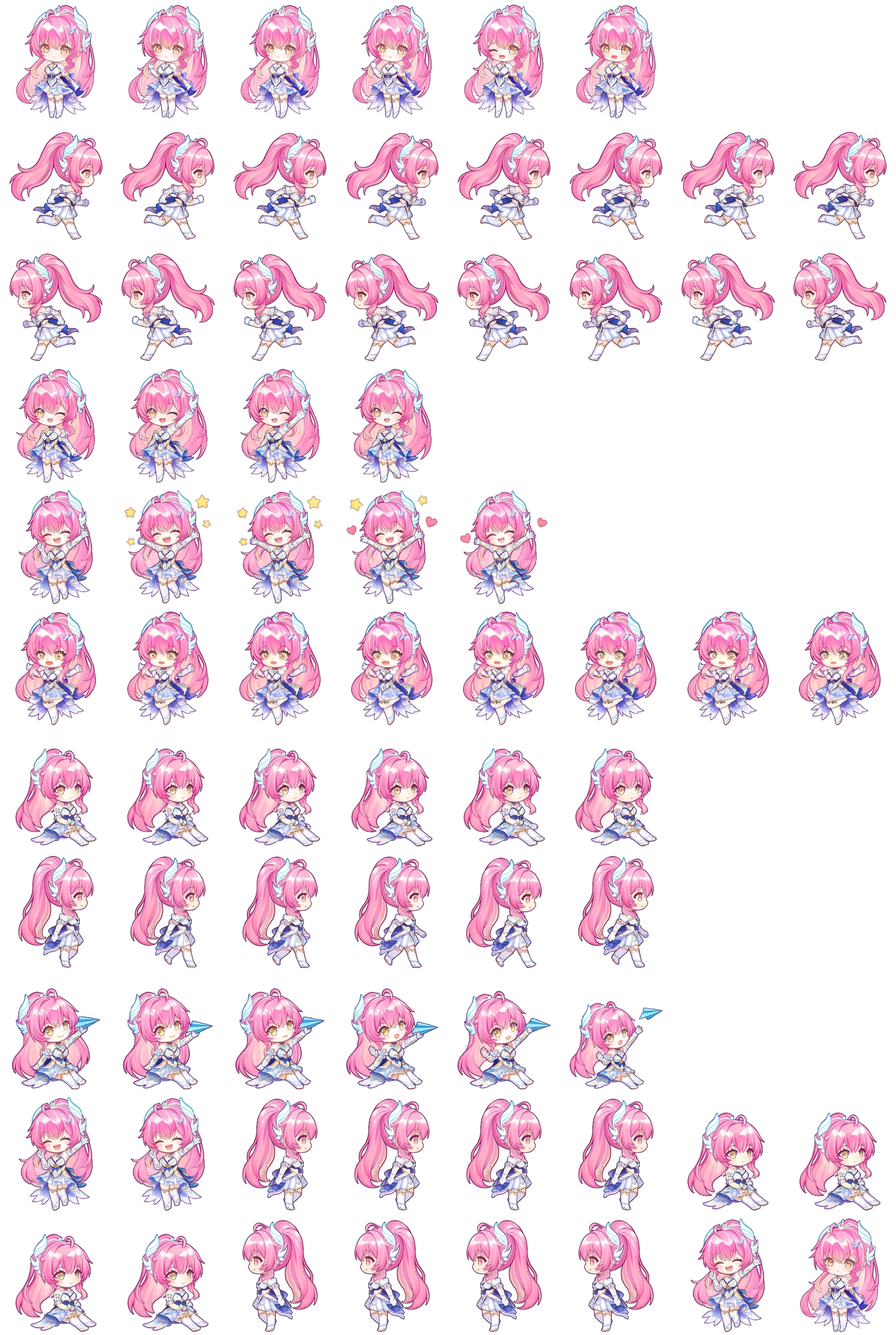
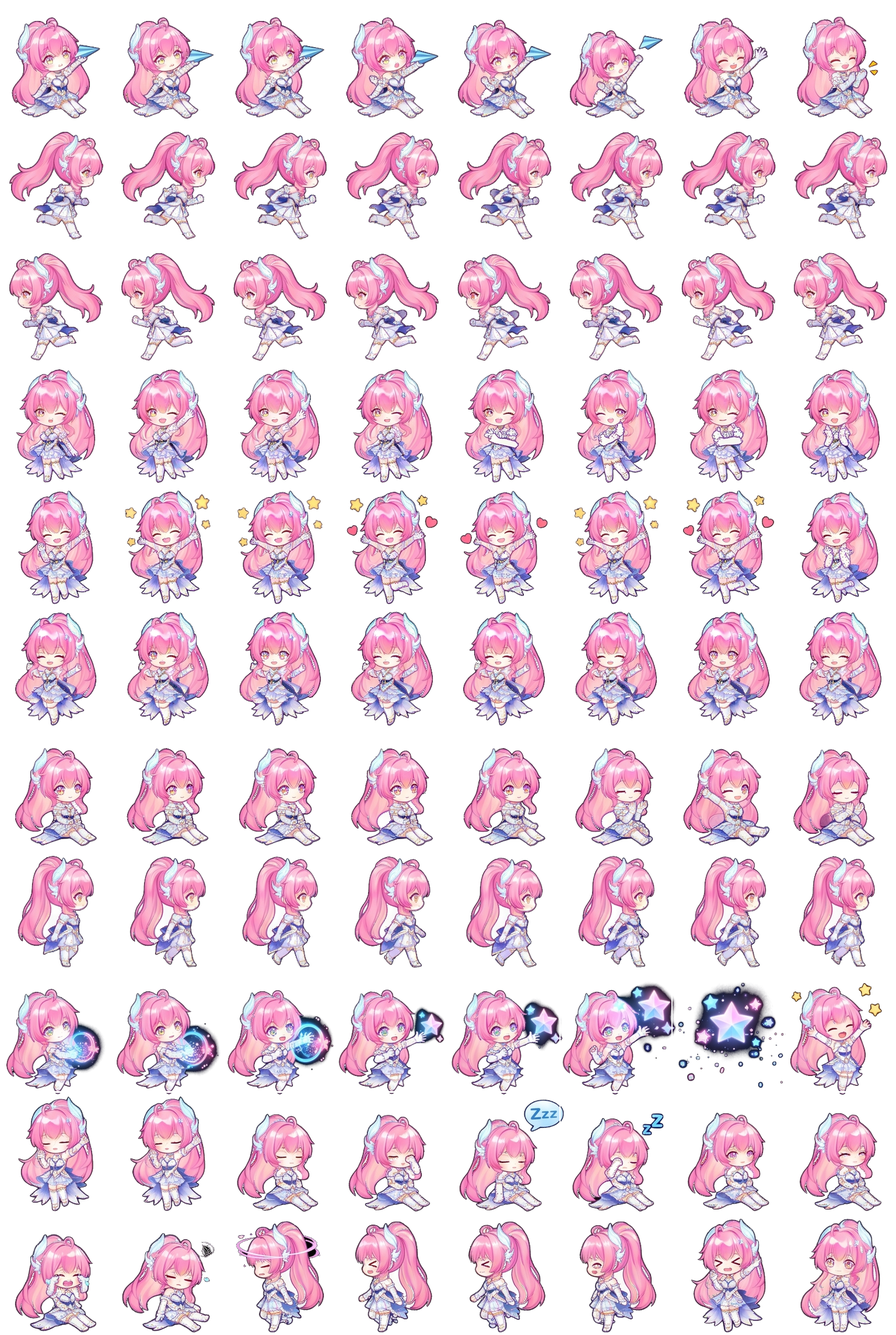
v1.0.2

Changed region(s): [[0.0, 0.0, 1.0, 1.0]]

diff --git a/tools/Compliant_Image_Reconstruction.py b/tools/Compliant_Image_Reconstruction.py
@@ -1,0 +1,177 @@
+from pathlib import Path
+
+# pyrefly: ignore [missing-import]
+import numpy as np
+# pyrefly: ignore [missing-import]
+from PIL import Image
+# pyrefly: ignore [missing-import]
+from scipy import ndimage
+
+# Codex-Pet V2 硬性规格常量 (8列 x 11行, 单帧 192x208, 总尺寸 1536x2288)
+CODEX_V2_COLS: int = 8
+CODEX_V2_ROWS: int = 11
+CODEX_V2_FRAME_W: int = 192
+CODEX_V2_FRAME_H: int = 208
+
+
+def _build_internal_dark_mask(
+    opaque_body: np.ndarray,
+    max_hole_area: int = 160,
+) -> np.ndarray:
+    """仅保留角色内部极小闭合深色区域（如眼瞳），防止双腿或发丝间的闭合黑底被误留。"""
+    solid_interior = ndimage.binary_fill_holes(opaque_body)
+    all_holes = solid_interior & (~opaque_body)
+
+    labeled_holes, num_features = ndimage.label(all_holes)
+    if num_features == 0:
+        return np.zeros_like(opaque_body, dtype=bool)
+
+    hole_sizes = ndimage.sum(all_holes, labeled_holes, range(1, num_features + 1))
+    small_hole_labels = np.where(hole_sizes <= max_hole_area)[0] + 1
+    return np.isin(labeled_holes, small_hole_labels)
+
+
+def _align_to_codex_grid(
+    img: Image.Image,
+    cols: int,
+    rows: int,
+    frame_w: int,
+    frame_h: int,
+    cell_padding: int = 1,
+) -> Image.Image:
+    """将图像按网格逐帧居中重采样至严格的 192x208 单元格，并清理边界防止串帧。"""
+    src_w, src_h = img.size
+    target_total_w = cols * frame_w
+    target_total_h = rows * frame_h
+
+    canvas = Image.new("RGBA", (target_total_w, target_total_h), (0, 0, 0, 0))
+    inner_max_w = frame_w - (cell_padding * 2)
+    inner_max_h = frame_h - (cell_padding * 2)
+
+    for r in range(rows):
+        for c in range(cols):
+            # 计算原图对应单元格的精确浮点边界并切片
+            x0 = round(c * src_w / cols)
+            y0 = round(r * src_h / rows)
+            x1 = round((c + 1) * src_w / cols)
+            y1 = round((r + 1) * src_h / rows)
+
+            cell = img.crop((x0, y0, x1, y1))
+            cw, ch = cell.size
+            if cw == 0 or ch == 0:
+                continue
+
+            # 保持原单元格比例缩放并居中放入 192x208 帧内
+            scale = min(inner_max_w / cw, inner_max_h / ch)
+            new_w = max(1, round(cw * scale))
+            new_h = max(1, round(ch * scale))
+            resized_cell = cell.resize((new_w, new_h), Image.Resampling.LANCZOS)
+
+            paste_x = c * frame_w + (frame_w - new_w) // 2
+            paste_y = r * frame_h + (frame_h - new_h) // 2
+            canvas.paste(resized_cell, (paste_x, paste_y), resized_cell)
+
+    return canvas
+
+
+def remove_black_bg_for_spritesheet(
+    input_path: str,
+    output_path: str,
+    cols: int = CODEX_V2_COLS,
+    rows: int = CODEX_V2_ROWS,
+    frame_w: int = CODEX_V2_FRAME_W,
+    frame_h: int = CODEX_V2_FRAME_H,
+    noise_floor: int = 12,
+    soft_threshold: int = 55,
+    max_hole_area: int = 160,
+) -> None:
+    src_file = Path(input_path)
+    if not src_file.exists():
+        raise FileNotFoundError(f"未找到输入图像文件: {src_file.resolve()}")
+
+    # 1. 读取图像并转换为 RGBA 浮点数组
+    img = Image.open(src_file).convert("RGBA")
+    data = np.array(img, dtype=np.float32)
+    rgb = data[:, :, :3]
+    orig_alpha = data[:, :, 3]
+
+    # 计算每个像素的最大通道亮度 (0 ~ 255)
+    max_rgb = np.max(rgb, axis=2)
+
+    # 2. 保护角色内部细小深色区域（如眼瞳、闭合小线条），排除肢体间大块闭合黑底
+    opaque_body = (max_rgb >= soft_threshold) & (orig_alpha > 128)
+    internal_dark_mask = _build_internal_dark_mask(
+        opaque_body=opaque_body,
+        max_hole_area=max_hole_area,
+    )
+
+    # 3. 计算平滑 Alpha 通道（消除底噪与边缘黑边）
+    alpha = np.ones_like(max_rgb, dtype=np.float32) * 255.0
+
+    # 纯黑底噪区直接设为全透明 (Alpha = 0)
+    bg_zero_mask = (max_rgb <= noise_floor) & (~internal_dark_mask)
+    alpha[bg_zero_mask] = 0.0
+
+    # 边缘过渡与发光特效区（如第9行星光）按亮度线性映射 Alpha
+    transition_mask = (
+        (max_rgb > noise_floor)
+        & (max_rgb < soft_threshold)
+        & (~internal_dark_mask)
+    )
+    alpha[transition_mask] = (
+        (max_rgb[transition_mask] - noise_floor) / (soft_threshold - noise_floor)
+    ) * 255.0
+
+    # 结合原图自带的 Alpha 通道（若输入本身为带透明度的 PNG）
+    alpha = np.minimum(alpha, orig_alpha)
+
+    # 4. 颜色反乘（Unmultiply）：去除半透明边缘混入的黑色底色，恢复原本鲜艳色彩
+    alpha_norm = alpha / 255.0
+    valid_alpha = alpha_norm > 0.01
+    for c in range(3):
+        channel = rgb[:, :, c]
+        channel[valid_alpha] = np.clip(
+            channel[valid_alpha] / alpha_norm[valid_alpha], 0.0, 255.0
+        )
+        channel[~valid_alpha] = 0.0
+        data[:, :, c] = channel
+
+    data[:, :, 3] = np.clip(alpha, 0.0, 255.0)
+    clean_img = Image.fromarray(data.astype(np.uint8), mode="RGBA")
+
+    # 5. 严格对齐至 Codex V2 标准网格尺寸：单帧 192x208，总分辨率 1536x2288
+    final_img = _align_to_codex_grid(
+        img=clean_img,
+        cols=cols,
+        rows=rows,
+        frame_w=frame_w,
+        frame_h=frame_h,
+        cell_padding=1,
+    )
+
+    # 6. 校验最终输出尺寸并导出为无损透明 WebP 格式
+    expected_size = (cols * frame_w, rows * frame_h)
+    assert final_img.size == expected_size, (
+        f"尺寸校验失败: 当前 {final_img.size}, 预期 {expected_size}"
+    )
+
+    dst_file = Path(output_path)
+    dst_file.parent.mkdir(parents=True, exist_ok=True)
+    final_img.save(dst_file, format="WEBP", lossless=True, quality=100, method=6)
+
+    print(
+        f"处理完成: {dst_file} | "
+        f"最终尺寸: {expected_size[0]}x{expected_size[1]} "
+        f"(网格: {cols}列x{rows}行, 单帧: {frame_w}x{frame_h})"
+    )
+
+
+if __name__ == "__main__":
+    # 将输入文件名替换为保存的图片路径，输出直接命名为 pet.json 所需的 WebP 文件
+    remove_black_bg_for_spritesheet(
+        input_path="./assets/demo.png",
+        output_path="./assets/demo.webp",
+        cols=8,
+        rows=11,
+    )
+    

diff --git a/README.md b/README.md
@@ -1,17 +1,30 @@
-# 爱弥斯桌宠
-
-旅途愉快，希望在接下来的旅途中每天都要开心！
-
-## 安装
+# 安装 Pets
 
 1. 找到 Codex 数据目录；默认是 `%USERPROFILE%\.codex`，如果你设置了 `CODEX_HOME`，使用对应的数据目录。
 2. 将本项目的整个 `pets/aimisi` 文件夹复制到数据目录的 `pets` 文件夹，使 `pet.json` 和 `spritesheet.webp` 位于同一个 `aimisi` 目录。
 3. 如果已有同名目录，先备份，不直接覆盖。在 Codex 的桌宠选择器中选择 **爱弥斯**。
 
-## 动作与格式
+### 图集为 1536×2288 的透明 WebP，8 列 × 11 行，每帧 192×208；`pet.json` 使用 `spriteVersionNumber: 2`。
 
-图集为 1536×2288 的透明 WebP，8 列 × 11 行，每帧 192×208；`pet.json` 使用 `spriteVersionNumber: 2`。
+### 移除时，仅移走自己安装的 `pets/aimisi` 目录；不要删除整个 Codex 数据目录。
 
-包含眨眼/呼吸待机、向右奔跑、向左奔跑、挥手、欢呼跳跃、被拽起/受挫、坐下等待、行走循环、投掷纸飞机思考，以及 16 个方向的鼠标视线跟随注视。动作何时播放由 Codex 状态与交互决定。
+# 开发环境配置
 
-移除时，仅移走自己安装的 `pets/aimisi` 目录；不要删除整个 Codex 数据目录。
+## 创建虚拟环境
+
+```bash
+python -m venv .venv
+```
+
+## 激活虚拟环境
+
+```bash
+.\.venv\Scripts\Activate.ps1
+pip install -r requirements.txt
+```
+
+## 重构精灵图以符合 Codex Pet 规范
+
+```bash
+python tools/Compliant_Image_Reconstruction.py
+```

diff --git a/Prompt.md b/Prompt.md
@@ -1,5 +1,5 @@
 # 提供两份样图
+1. 原合规精灵图（用于参考图集结构与序列,限定为11行x8列）
+2. 目标样式图（用于角色外观参考）
 
-# 根据这张目标样式图的人物，给我生成一份高清的精灵图（Spritesheet），包含站立、行走、挥手、坐下、睡觉、开心等多种动画序列帧
-
-# 编写配套的 pet.json
+# 根据目标样式图的人物，生成一份高清的精灵图（Spritesheet），适用于通过 hatch-pet Skill 构建的 OpenAI Codex Pet，包含站立、行走、挥手、坐下、睡觉、开心等多种动画序列帧。
